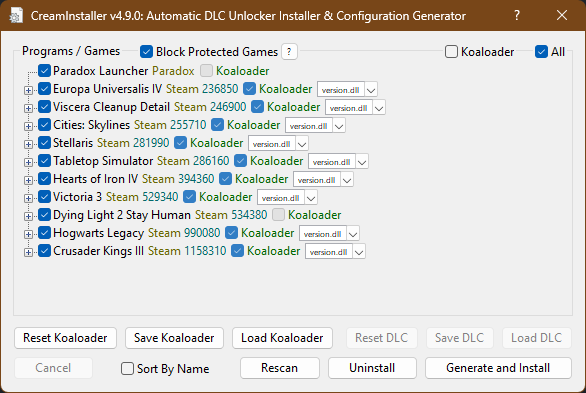
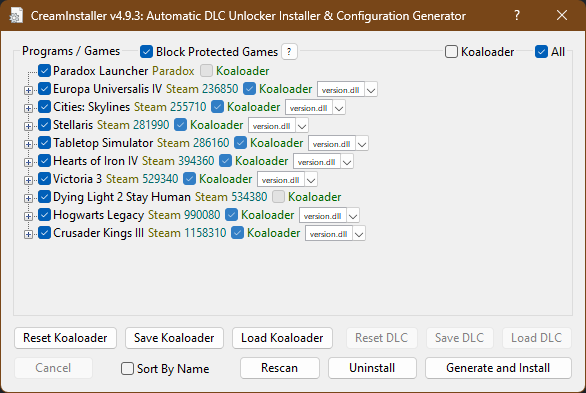
v4.9.3
- Fixed selection duplicates caused by using differing-case installation directories as unique factors
- File and directory paths are now exact and correctly cased

Changed region(s): [[0.0307, 0.2443, 0.6451, 0.6718], [0.215, 0.0305, 0.2457, 0.0611]]

diff --git a/CreamInstaller/Platforms/Steam/SteamLibrary.cs b/CreamInstaller/Platforms/Steam/SteamLibrary.cs
@@ -17,7 +17,7 @@ internal static class SteamLibrary
         {
             installPath ??= Registry.GetValue(@"HKEY_CURRENT_USER\Software\Valve\Steam", "SteamPath", null) as string;
             installPath ??= Registry.GetValue(@"HKEY_LOCAL_MACHINE\SOFTWARE\Valve\Steam", "InstallPath", null) as string;
-            return installPath.BeautifyPath();
+            return installPath.ResolvePath();
         }
     }
 
@@ -31,7 +31,7 @@ internal static class SteamLibrary
                 if (Program.Canceled)
                     return games;
                 foreach ((string appId, string name, string branch, int buildId, string gameDirectory) game in (await GetGamesFromLibraryDirectory(
-                             libraryDirectory)).Where(game => !games.Any(_game => _game.appId == game.appId && _game.gameDirectory == game.gameDirectory)))
+                             libraryDirectory)).Where(game => games.All(_game => _game.appId != game.appId)))
                     games.Add(game);
             }
             return games;
@@ -57,12 +57,8 @@ internal static class SteamLibrary
                 if (string.IsNullOrWhiteSpace(appId) || string.IsNullOrWhiteSpace(installdir) || string.IsNullOrWhiteSpace(name)
                  || string.IsNullOrWhiteSpace(buildId))
                     continue;
-                string gameDirectory = (libraryDirectory + @"\common\" + installdir).BeautifyPath();
-                if (games.Any(g => g.appId == appId && g.gameDirectory == gameDirectory))
-                    continue;
-                if (!int.TryParse(appId, out int _))
-                    continue;
-                if (!int.TryParse(buildId, out int buildIdInt))
+                string gameDirectory = (libraryDirectory + @"\common\" + installdir).ResolvePath();
+                if (gameDirectory is null || !int.TryParse(appId, out int _) || !int.TryParse(buildId, out int buildIdInt) || games.Any(g => g.appId == appId))
                     continue;
                 VToken userConfig = result.Value.GetChild("UserConfig");
                 string branch = userConfig?.GetChild("BetaKey")?.ToString();

diff --git a/CreamInstaller/Resources/Resources.cs b/CreamInstaller/Resources/Resources.cs
@@ -522,8 +522,8 @@ internal static class Resources
 
     private static bool IsCommonIncorrectExecutable(this string rootDirectory, string path)
     {
-        string subPath = path[rootDirectory.Length..].ToUpperInvariant().BeautifyPath();
-        return subPath.Contains("SETUP") || subPath.Contains("REDIST") || subPath.Contains("SUPPORT")
+        string subPath = path[rootDirectory.Length..].ResolvePath();
+        return subPath is null || subPath.Contains("SETUP") || subPath.Contains("REDIST") || subPath.Contains("SUPPORT")
             || subPath.Contains("CRASH") && (subPath.Contains("PAD") || subPath.Contains("REPORT")) || subPath.Contains("HELPER")
             || subPath.Contains("CEFPROCESS") || subPath.Contains("ZFGAMEBROWSER") || subPath.Contains("MONO") || subPath.Contains("PLUGINS")
             || subPath.Contains("MODDING") || subPath.Contains("MOD") && subPath.Contains("MANAGER") || subPath.Contains("BATTLEYE")
@@ -540,8 +540,8 @@ internal static class Resources
             {
                 if (Program.Canceled)
                     return null;
-                string subDirectory = directory.BeautifyPath();
-                if (dllDirectories.Contains(subDirectory))
+                string subDirectory = directory.ResolvePath();
+                if (subDirectory is null || dllDirectories.Contains(subDirectory))
                     continue;
                 bool koaloaderInstalled = Koaloader.AutoLoadDLLs.Select(pair => (pair.unlocker, path: directory + @"\" + pair.dll))
                    .Any(pair => pair.path.FileExists() && pair.path.IsResourceFile());

diff --git a/CreamInstaller/Platforms/Epic/EpicLibrary.cs b/CreamInstaller/Platforms/Epic/EpicLibrary.cs
@@ -21,7 +21,7 @@ internal static class EpicLibrary
             epicManifestsPath ??= Registry.GetValue(@"HKEY_LOCAL_MACHINE\SOFTWARE\Epic Games\EpicGamesLauncher", "AppDataPath", null) as string;
             if (epicManifestsPath is not null && epicManifestsPath.EndsWith(@"\Data", StringComparison.Ordinal))
                 epicManifestsPath += @"\Manifests";
-            return epicManifestsPath.BeautifyPath();
+            return epicManifestsPath.ResolvePath();
         }
     }
 
@@ -39,8 +39,7 @@ internal static class EpicLibrary
                     try
                     {
                         Manifest manifest = JsonConvert.DeserializeObject<Manifest>(json);
-                        if (manifest is not null && !games.Any(g
-                                => g.CatalogNamespace == manifest.CatalogNamespace && g.InstallLocation == manifest.InstallLocation))
+                        if (manifest is not null && games.All(g => g.CatalogNamespace != manifest.CatalogNamespace))
                             games.Add(manifest);
                     }
                     catch

diff --git a/CreamInstaller/Selection.cs b/CreamInstaller/Selection.cs
@@ -103,8 +103,7 @@ internal sealed class Selection : IEquatable<Selection>
         }
     }
 
-    public bool Equals(Selection other)
-        => other is not null && (ReferenceEquals(this, other) || Id == other.Id && Platform == other.Platform && RootDirectory == other.RootDirectory);
+    public bool Equals(Selection other) => other is not null && (ReferenceEquals(this, other) || Id == other.Id && Platform == other.Platform);
 
     internal static Selection GetOrCreate(Platform platform, string id, string name, string rootDirectory, HashSet<string> dllDirectories,
         List<(string directory, BinaryType binaryType)> executableDirectories)
@@ -150,5 +149,5 @@ internal sealed class Selection : IEquatable<Selection>
 
     public override bool Equals(object obj) => ReferenceEquals(this, obj) || obj is Selection other && Equals(other);
 
-    public override int GetHashCode() => HashCode.Combine(Id, (int)Platform, RootDirectory);
+    public override int GetHashCode() => HashCode.Combine(Id, (int)Platform);
 }

diff --git a/CreamInstaller/Utility/Diagnostics.cs b/CreamInstaller/Utility/Diagnostics.cs
@@ -42,5 +42,15 @@ internal static class Diagnostics
 
     internal static void OpenUrlInInternetBrowser(string url) => Process.Start(new ProcessStartInfo { FileName = url, UseShellExecute = true });
 
-    internal static string BeautifyPath(this string path) => path is null ? null : Path.TrimEndingDirectorySeparator(Path.GetFullPath(path)).ToLowerInvariant();
+    internal static string ResolvePath(this string path)
+    {
+        if (path is null || !path.FileExists() && !path.DirectoryExists())
+            return null;
+        DirectoryInfo info = new(path);
+        if (info.Parent is null)
+            return info.Name.ToUpperInvariant();
+        string parent = ResolvePath(info.Parent.FullName);
+        string name = info.Parent.GetFileSystemInfos(info.Name)[0].Name;
+        return parent is null ? name : Path.Combine(parent, name);
+    }
 }

diff --git a/CreamInstaller/Platforms/Ubisoft/UbisoftLibrary.cs b/CreamInstaller/Platforms/Ubisoft/UbisoftLibrary.cs
@@ -30,8 +30,8 @@ internal static class UbisoftLibrary
             foreach (string gameId in installsKey.GetSubKeyNames())
             {
                 RegistryKey installKey = installsKey.OpenSubKey(gameId);
-                string installDir = installKey?.GetValue("InstallDir")?.ToString()?.BeautifyPath();
-                if (installDir is not null && !games.Any(g => g.gameId == gameId && g.gameDirectory == installDir))
+                string installDir = installKey?.GetValue("InstallDir")?.ToString()?.ResolvePath();
+                if (installDir is not null && games.All(g => g.gameId != gameId))
                     games.Add((gameId, new DirectoryInfo(installDir).Name, installDir));
             }
             return games;

diff --git a/CreamInstaller/Utility/SafeIO.cs b/CreamInstaller/Utility/SafeIO.cs
@@ -251,7 +251,7 @@ internal static class SafeIO
     private static DialogResult IOWarnInternal(this string filePath, string message, Exception e, Form form = null)
     {
         using DialogForm dialogForm = new(form);
-        string description = message + ": " + filePath.BeautifyPath() + "\n\n";
+        string description = message + ": " + filePath.ResolvePath() + "\n\n";
         if (e is IOException && (e.HResult & 0x0000FFFF) == 225) // virus or potentially unwanted software
             description += "Please resolve your anti-virus and press retry to continue . . . ";
         else

diff --git a/CreamInstaller/Platforms/Epic/Heroic/HeroicLibrary.cs b/CreamInstaller/Platforms/Epic/Heroic/HeroicLibrary.cs
@@ -34,7 +34,7 @@ internal static class HeroicLibrary
                         {
                             DisplayName = appData.Title, CatalogNamespace = appData.Namespace, InstallLocation = appData.Install.InstallPath
                         };
-                        if (!games.Any(g => g.CatalogNamespace == manifest.CatalogNamespace && g.InstallLocation == manifest.InstallLocation))
+                        if (games.All(g => g.CatalogNamespace != manifest.CatalogNamespace))
                             games.Add(manifest);
                     }
                     catch

diff --git a/CreamInstaller/Platforms/Paradox/ParadoxLauncher.cs b/CreamInstaller/Platforms/Paradox/ParadoxLauncher.cs
@@ -25,7 +25,7 @@ internal static class ParadoxLauncher
         get
         {
             installPath ??= Registry.GetValue(@"HKEY_CURRENT_USER\Software\Paradox Interactive\Paradox Launcher v2", "LauncherInstallation", null) as string;
-            return installPath.BeautifyPath();
+            return installPath.ResolvePath();
         }
     }
 

diff --git a/CreamInstaller/Forms/SelectDialogForm.Designer.cs b/CreamInstaller/Forms/SelectDialogForm.Designer.cs
@@ -1,6 +1,5 @@
 using System.ComponentModel;
 using System.Windows.Forms;
-
 using CreamInstaller.Components;
 
 namespace CreamInstaller.Forms
